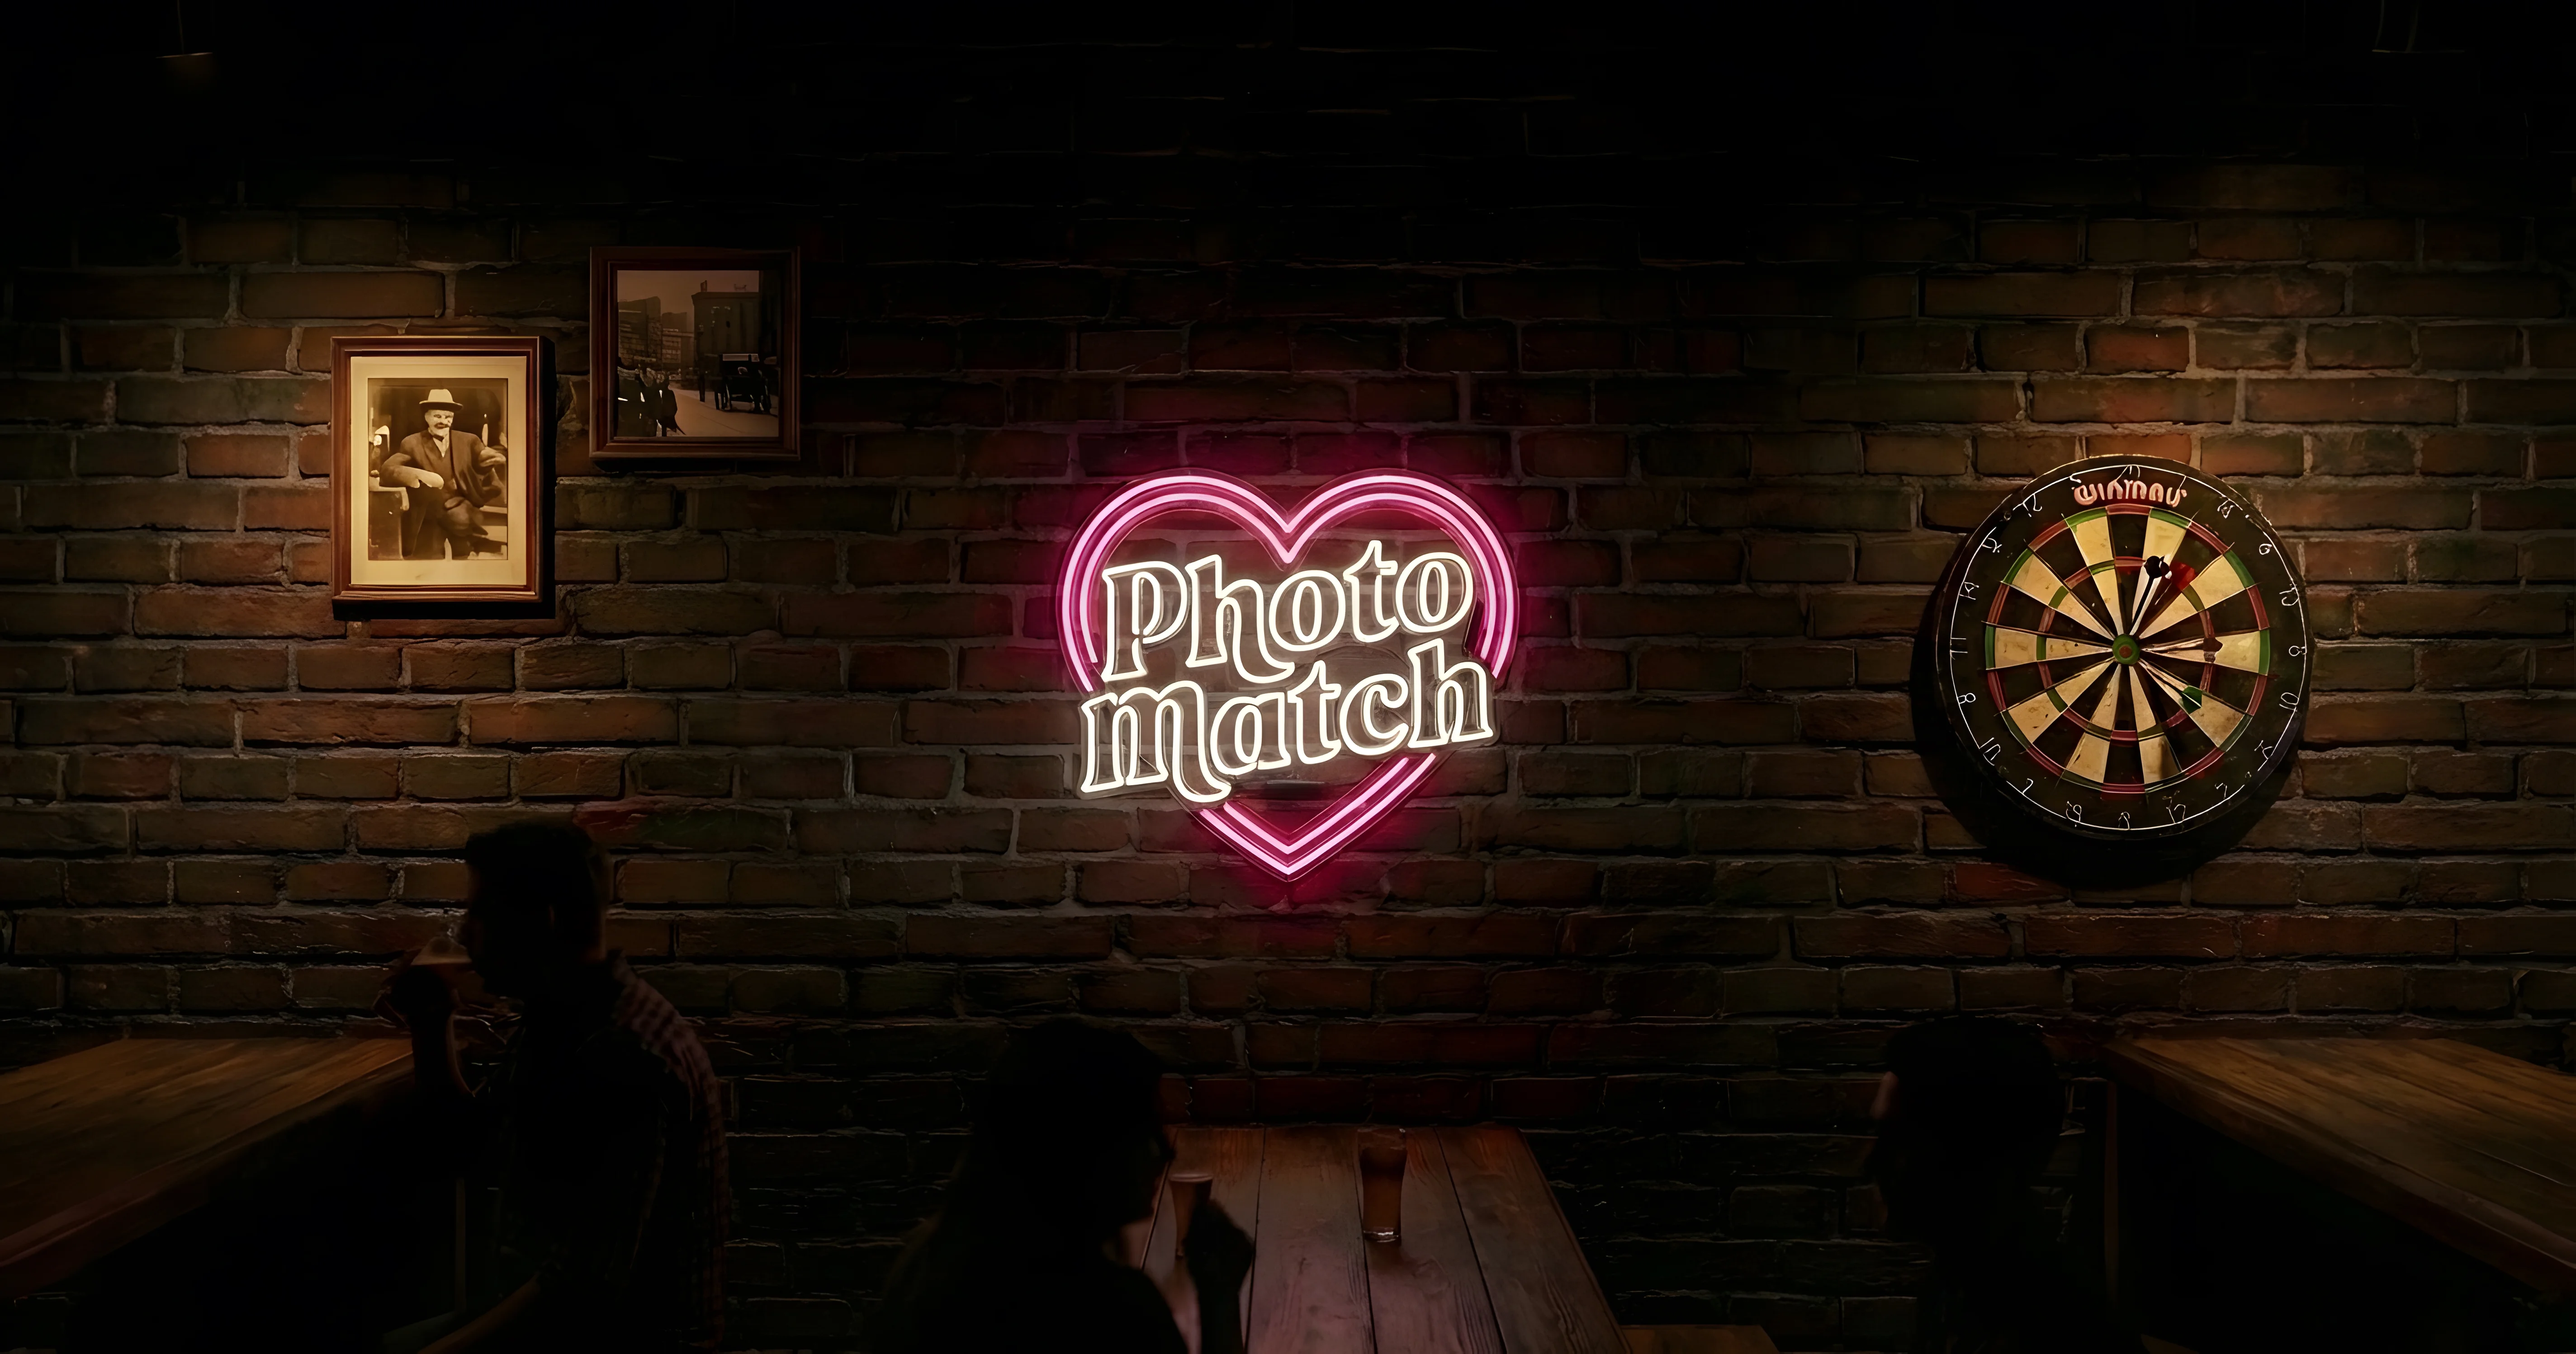
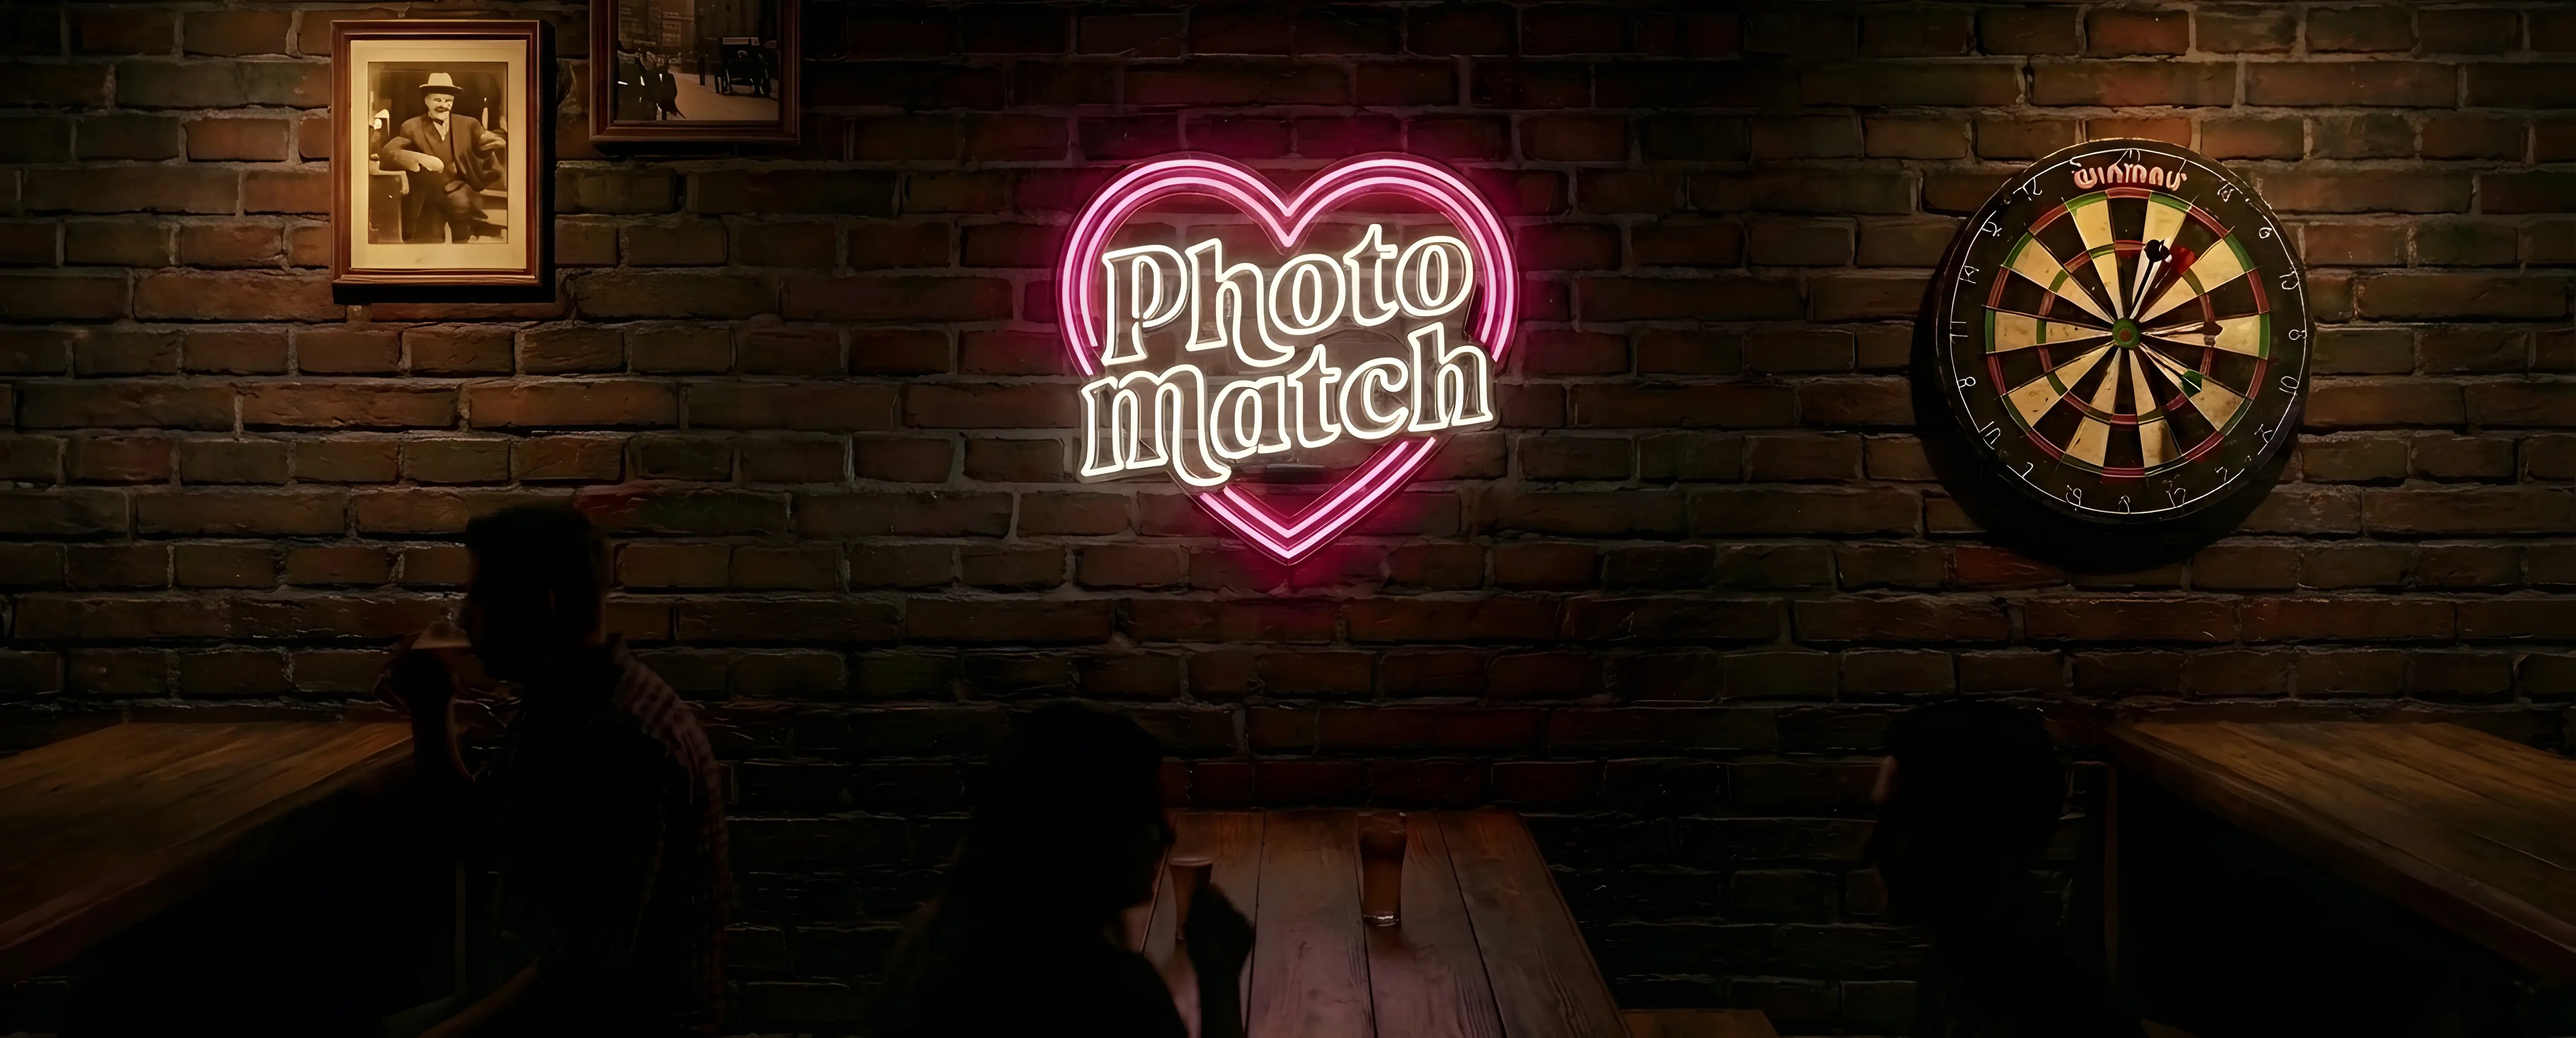
V12.94: crop source image top - sign sits higher naturally

diff --git a/src/components/Hero.tsx b/src/components/Hero.tsx
@@ -67,7 +67,7 @@ export default function Hero() {
         }
         .hero_bg-image {
           object-fit: cover;
-          object-position: center 15%;
+          object-position: center center;
         }
         .hero_bg-mobile {
           display: none;
